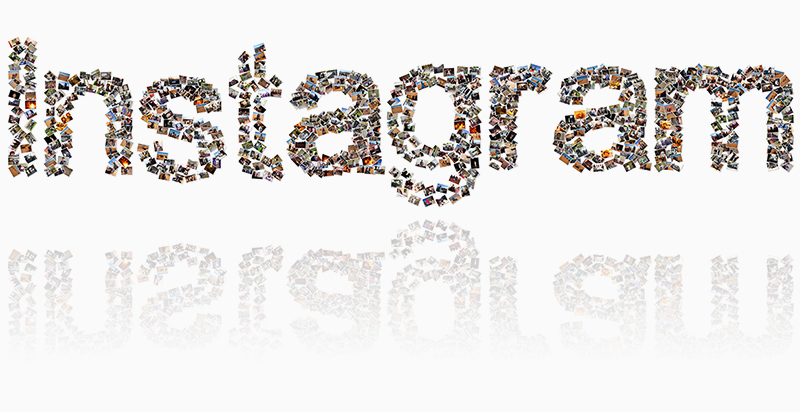
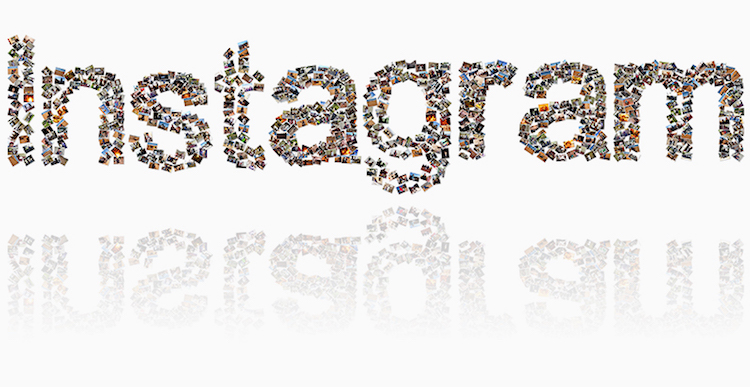
topページのCSS変更(画像の中央表示)

Changed region(s): [[0.0, 0.124, 1.0, 0.4961], [0.0, 0.093, 0.0307, 0.155]]

diff --git a/app/assets/stylesheets/photos.scss b/app/assets/stylesheets/photos.scss
@@ -56,9 +56,11 @@ ul#navigation{
 }
 
 #top_image{
-   width: 800px;
-   height: 412px;
-   margin: 0px auto;
+   //width: 800px;
+   //height: 412px;
+   //margin: 0px auto;
+   margin: 0px;
+//   border:1px solid #f00;
    padding: 0px;
    background-color: rgb(250,250,250);
 }
@@ -91,6 +93,18 @@ ul#navigation{
 
 .contents{
     background-color: rgb(250,250,250);
+//    border:1px solid #0f0;
+    padding: 0px;
+}
+
+.container{
+//  margin: 0px;
+//  padding: 0px;
+}
+
+.row{
+//  margin: 0px;
+//  padding: 0px;
 }
 
 .post{
